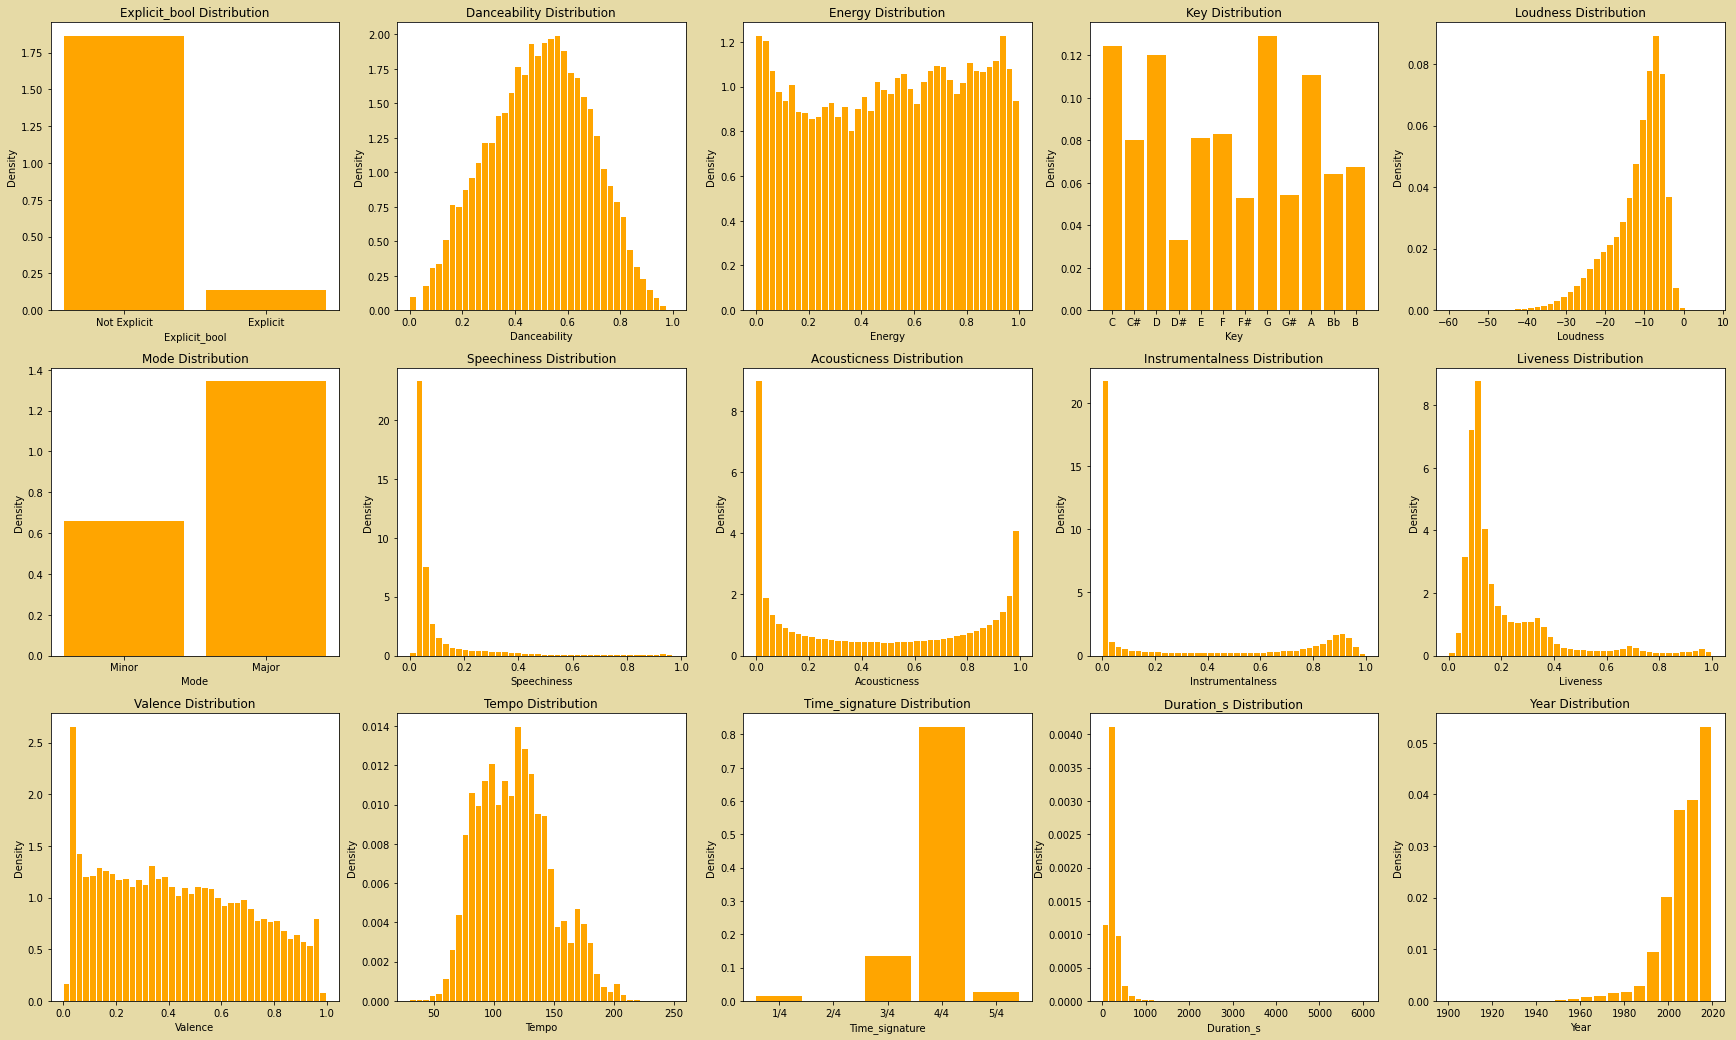
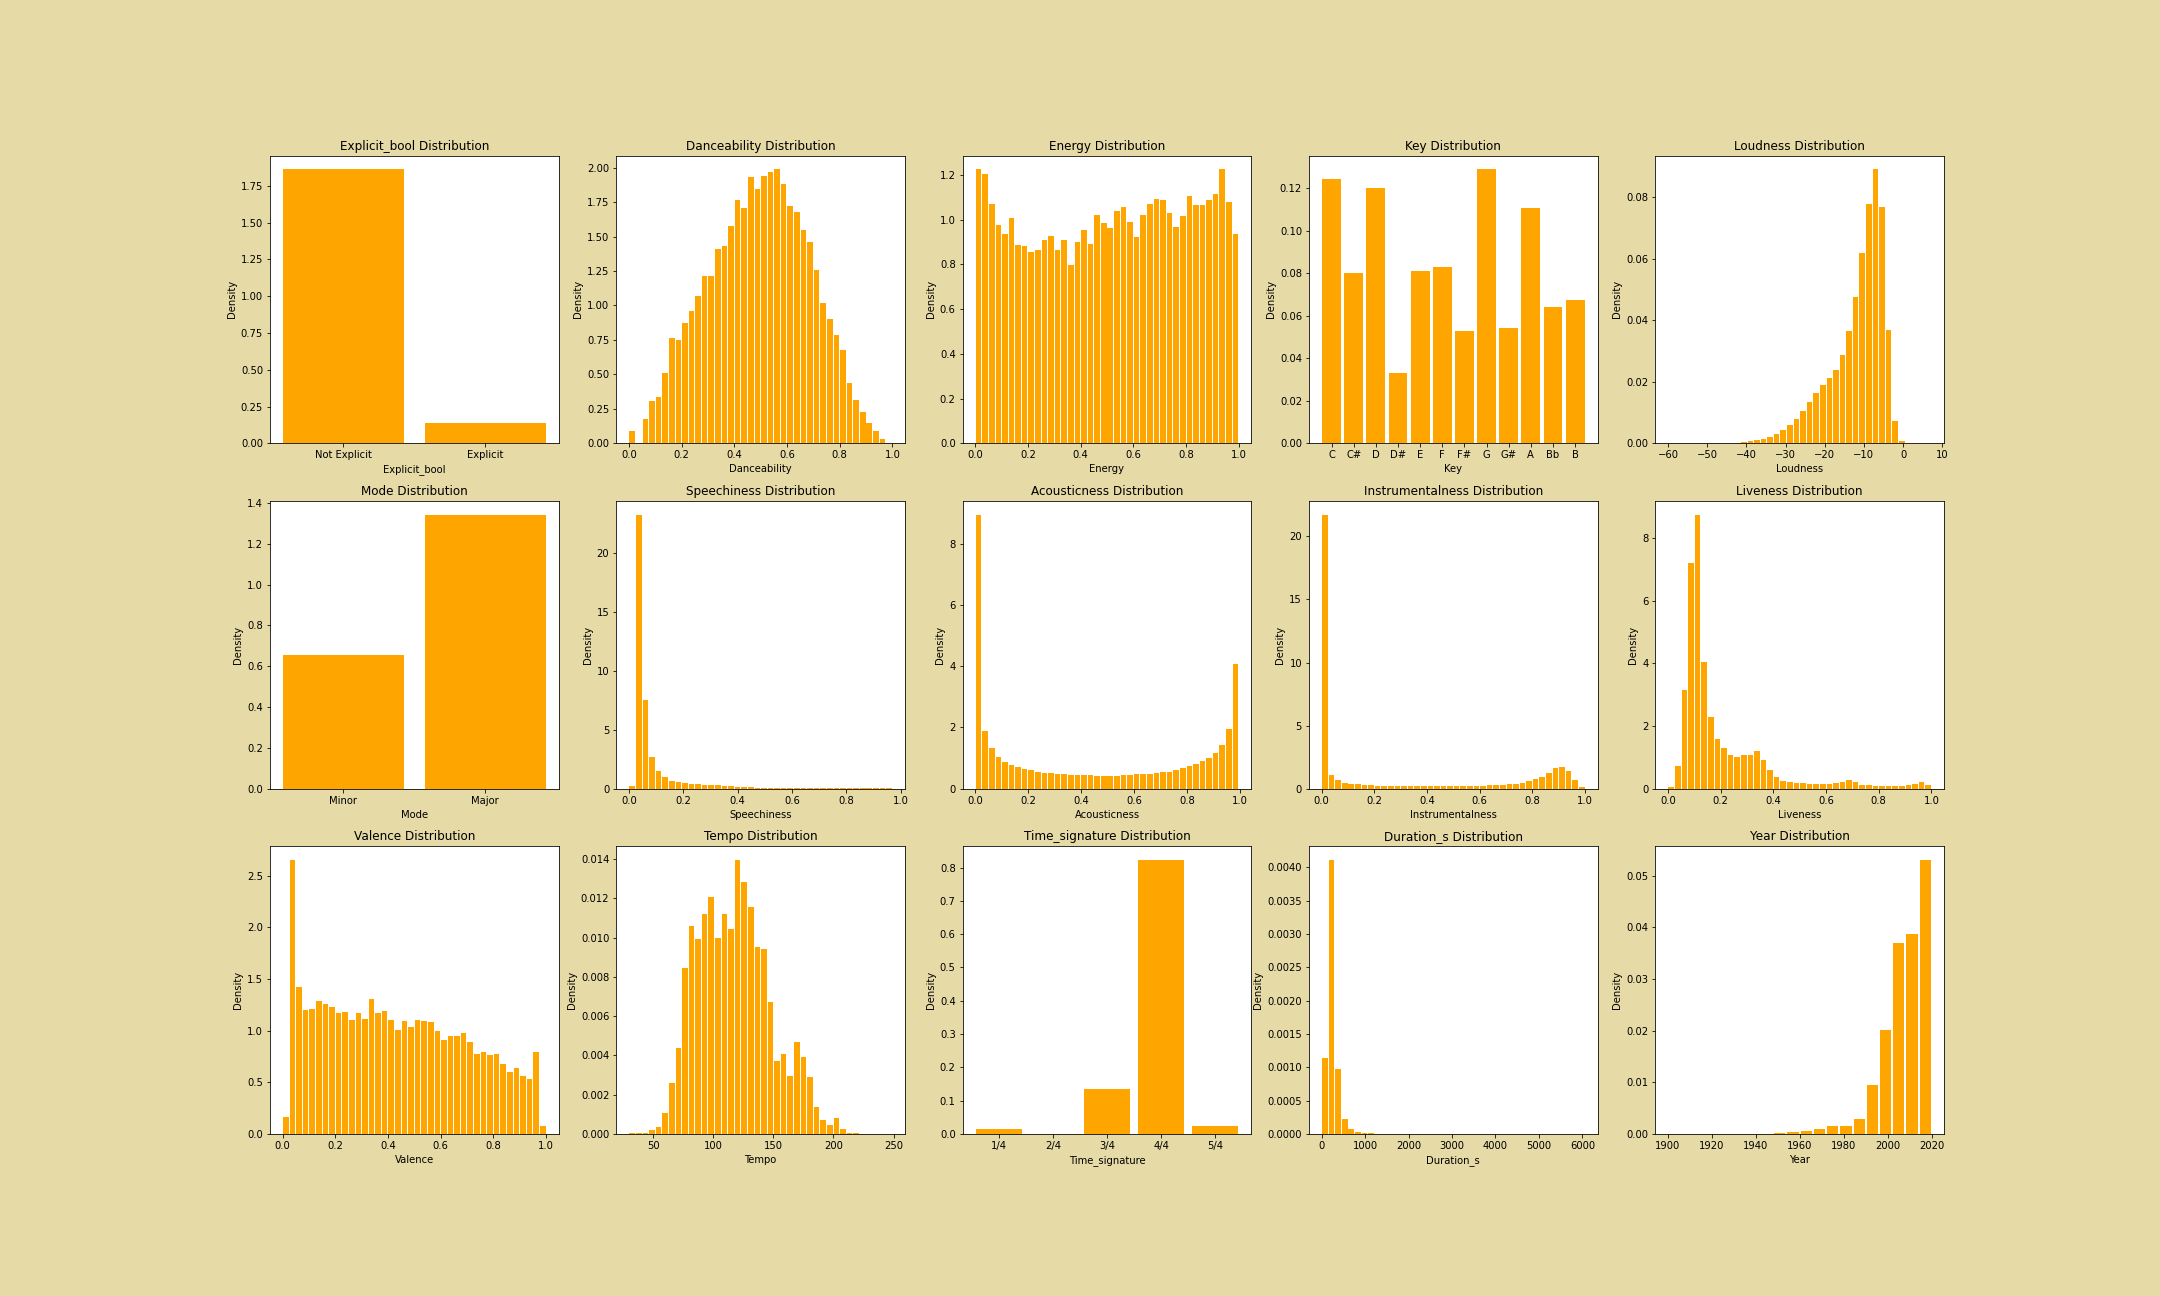
Translating python pre-processing from jupyter notebook to python file

diff --git a/SpotifyProcessing.py b/SpotifyProcessing.py
@@ -1,0 +1,150 @@
+# %%
+import pandas as pd
+import numpy as np
+import matplotlib as mpl
+import matplotlib.pyplot as plt
+
+# %%
+# Import dataset
+track_df = pd.read_csv('tracks_features.csv', header=0,)
+track_df.describe()
+print(track_df.columns)
+
+# %%
+search = ['Rage Against The Machine']
+track_df[track_df['artists'].isin(search)]
+
+# %%
+track_df['artists']
+
+# %%
+# clean df
+# compute duration in seconds
+track_df['duration_s'] = track_df['duration_ms'] / 1000
+
+# compute 0/1 mask for explicit
+track_df['explicit_bool'] = track_df.apply(lambda row: 1 if row['explicit'] else 0, axis=1)
+
+# remove tempo values of 0
+track_df['tempo'] = track_df['tempo'].replace(0, np.nan)
+track_df['tempo'].min()
+
+# remove year values of 0
+track_df['year'] = track_df['year'].replace(0, np.nan)
+
+# remove time signature values of 0
+track_df['time_signature'] = track_df['time_signature'].replace(0, np.nan)
+
+# remove key values of -1
+track_df['key'] = track_df['key'].replace(-1, np.nan)
+
+# %%
+def make_hist(X: np.array, x_label, y_label, title, bins=None, range=None, color='orange', label=None, fig=None, ax=None, x_ticks=None):
+    if not fig or not ax:
+        fig, ax = plt.subplots()
+    if range:
+        X = X[(X >= range[0]) & (X <= range[1])]
+    ax.hist(X, bins=bins, range=range, color=color, histtype='bar', align='mid', rwidth=0.85, density=True, label=label, )
+    ax.set_xlabel(x_label)
+    ax.set_ylabel(y_label)
+    ax.set_title(title)
+    if x_ticks:
+        ax.set_xticks(x_ticks[0], x_ticks[1])
+    return fig, ax
+
+
+def print_descriptives(X: pd.Series, name, acc=3, fp = None):
+    # comb out NA values
+    X_stat = X[~(pd.isna(X))]
+    descriptives = list()
+    descriptives.append(f'{name} has:\nmean: {np.mean(X_stat):.3f}')
+    descriptives.append(f'median: {np.median(X_stat):.3f}')
+    descriptives.append(f'standard deviation: {np.std(X_stat):.3f}')
+    descriptives.append(f'number of values: {len(np.unique(X_stat))}')
+    descriptives.append(f'count: {X_stat.count()}')
+    descriptives.append(f'interval: ({np.min(X_stat):.3f}, {np.max(X_stat):.3f})')
+    if fp:
+        for txt in descriptives:
+            fp.write(txt + '\n')
+        fp.write('--------------------------\n')
+    else:
+        for txt in descriptives:
+            print(txt)
+        print('--------------------------')
+
+
+# %%
+print(track_df.columns)
+col_names = ['explicit_bool', 'danceability', 'energy', 'key', 'loudness', 'mode', 'speechiness', 'acousticness', 'instrumentalness', 'liveness', 'valence', 'tempo', 'time_signature', 'duration_s', 'year']
+num_bins = [2, 40, 40, 12, 40, 2, 40, 40, 40, 40, 40, 40, 4, 40, 20]
+options = {
+    'explicit_bool': {
+        'x_ticks': [
+            [0.25, 0.75],
+            ['Not Explicit', 'Explicit']
+        ],
+        'bins': 2
+    },
+    'mode' : {
+        'x_ticks': [
+            [0.25, 0.75],
+            ['Minor', 'Major']
+        ],
+        'bins':2
+    },
+    'time_signature' : {
+        'x_ticks': [
+            [1, 2, 3, 4, 5],
+            [str(int(x)) + '/4' for x in [1, 2, 3, 4, 5]]
+        ],
+        'bins': [0.5, 1.5, 2.5, 3.5, 4.5, 5.5]
+    },
+    'key' : {
+        'x_ticks': [
+            [0, 1, 2, 3, 4, 5, 6, 7, 8, 9, 10, 11],
+            ['C', 'C#', 'D', 'D#', 'E', 'F', 'F#', 'G', 'G#', 'A', 'Bb', 'B']
+        ],
+        'bins': [
+            -0.5, 0.5, 1.5, 2.5, 3.5, 4.5, 5.5, 6.5, 7.5, 8.5, 9.5, 10.5, 11.5
+        ]
+    }
+}
+print(col_names)
+
+# %%
+# Init outfile
+f = open('SpotifyDescriptives.txt', 'w')
+
+## Analyze all numerics
+rows = 3
+cols = 5
+fig, axs = plt.subplots(rows, cols)
+i = 0
+for axs_list in axs:
+    for ax in axs_list:
+        # Get current column name and generate descriptive name
+        curr_col = col_names[i]
+        desc_name = curr_col.capitalize()
+
+        # generate hist
+        try:
+            if curr_col in options:
+                make_hist(track_df[curr_col], desc_name, 'Density', desc_name + ' Distribution', fig=fig, ax=ax, **options[curr_col])
+            else:
+                make_hist(track_df[curr_col], desc_name, 'Density', desc_name + ' Distribution', fig=fig, ax=ax, bins=num_bins[i])
+        except:
+            print(f'Could not generate histogram for {desc_name}')
+        # show descriptives
+        try:
+            print_descriptives(track_df[curr_col], desc_name, fp=f)
+        except:
+            print(f'Could not print descriptives for {desc_name}')
+        i += 1
+fig.set_size_inches(cols * 6, rows * 6)
+fig.set_facecolor('#e6daa6')
+fig.show()
+f.close()
+# save figure
+plt.savefig('SpotifyHists.png', pad_inches=0.01)
+
+
